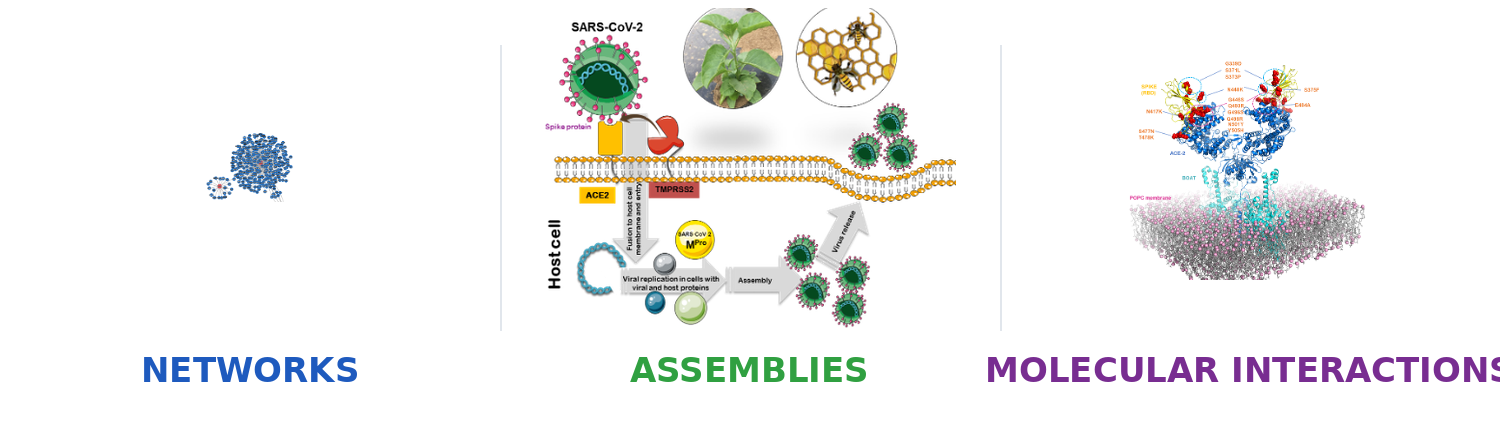
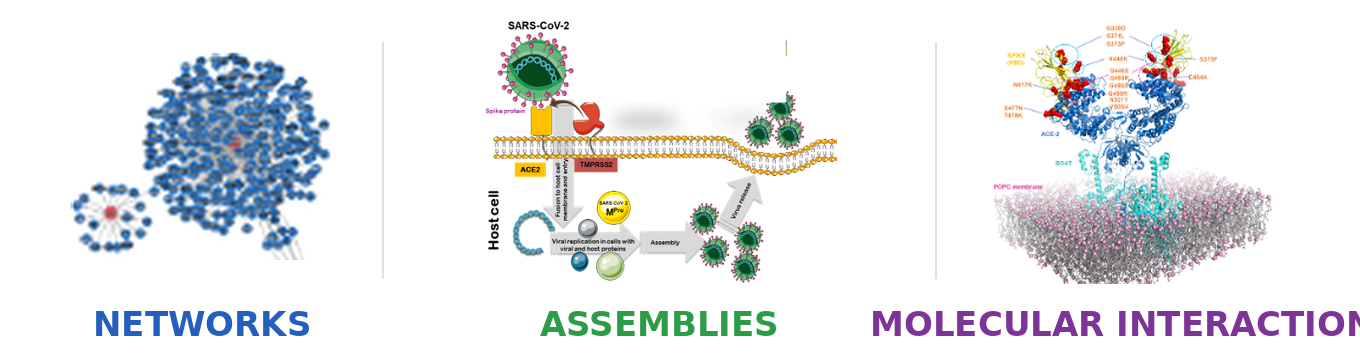
Add files via upload

diff --git a/index.html b/index.html
@@ -1,6 +1,6 @@
-<!doctype html><html lang="en"><head><meta charset="utf-8"><meta name="viewport" content="width=device-width,initial-scale=1"><title>LBSD | Laboratory of Biomolecular Structure & Dynamics</title><meta name="description" content="Laboratory of Biomolecular Structure & Dynamics (LBSD), JIIT Noida. Computational, integrative and data-driven approaches to biomolecular structure, dynamics and molecular discovery."><link rel="stylesheet" href="assets/style.css?v=3.1"></head><body>
+<!doctype html><html lang="en"><head><meta charset="utf-8"><meta name="viewport" content="width=device-width,initial-scale=1"><title>LBSD | Laboratory of Biomolecular Structure & Dynamics</title><meta name="description" content="Laboratory of Biomolecular Structure & Dynamics (LBSD), JIIT Noida. Computational, integrative and data-driven approaches to biomolecular structure, dynamics and molecular discovery."><link rel="stylesheet" href="assets/style.css?v=3.2"></head><body>
 <header><a class="brand" href="index.html"><b>LBSD</b><span>Laboratory of Biomolecular<br>Structure & Dynamics</span></a><nav><a class="active" href="index.html">Home</a><a href="research.html">Research</a><a href="people.html">People</a><a href="publications.html">Publications</a><a href="opportunities.html">Opportunities</a><a href="about.html">About</a></nav></header>
-<main><section class="hero hero-v2"><div><p class="eyebrow">COMPUTATIONAL · INTEGRATIVE · DATA-DRIVEN</p><h1>Decoding biomolecular organization across scales.</h1><p class="lead">We develop and apply computational, integrative, and data-driven approaches to understand biomolecular structure, dynamics, interactions, and function.</p><div class="actions"><a class="button" href="research.html">Explore our research →</a><a class="textlink" href="opportunities.html">Join LBSD</a></div></div><div class="scale-visual scale-banner" aria-label="Networks, assemblies, and molecular interactions"><img src="assets/images/hero-scales.png" alt="Networks, assemblies, and molecular interactions"></div></section>
+<main><section class="hero hero-v32"><div class="hero-copy"><p class="eyebrow">COMPUTATIONAL · INTEGRATIVE · DATA-DRIVEN</p><h1>Decoding biomolecular organization across scales.</h1><p class="lead">We develop and apply computational, integrative, and data-driven approaches to understand biomolecular structure, dynamics, interactions, and function.</p><div class="actions"><a class="button" href="research.html">Explore our research →</a><a class="textlink" href="opportunities.html">Join LBSD</a></div></div><div class="scale-visual scale-banner hero-banner-wide" aria-label="Networks, assemblies, and molecular interactions"><img src="assets/images/hero-scales.png" alt="Networks, assemblies, and molecular interactions"></div></section>
 <section class="section"><p class="eyebrow">RESEARCH</p><h2>From molecular mechanisms to discovery</h2><div class="cards research-cards">
 <article><div class="research-media"><video autoplay muted loop playsinline preload="metadata" aria-label="Molecular dynamics trajectory of an SLC6A12 transporter system"><source src="assets/images/slc612-histidine.mp4" type="video/mp4"></video></div><div class="num">01</div><h3>Biomolecular Structure & Dynamics</h3><p>Molecular modeling, conformational dynamics, simulations, and analysis of proteins, complexes, and membrane-associated systems.</p></article>
 <article><div class="research-media compact"><img src="assets/images/integrative-modeling.png" alt="Convolutional neural network architecture for structural modeling"></div><div class="num">02</div><h3>Integrative & Data-Driven Structural Biology</h3><p>Integrating structural, proteomic, and systems-level information to model macromolecular assemblies across biological scales.</p></article>

diff --git a/assets/style.css b/assets/style.css
@@ -16,3 +16,46 @@
 .scale-visual.scale-banner{display:flex;max-width:600px;margin-left:auto;align-items:center;justify-content:center}
 .scale-visual.scale-banner img{width:100%;height:auto;max-height:300px;object-fit:contain;background:#fff;border:1px solid var(--line);border-radius:14px;padding:8px}
 @media(max-width:850px){.scale-visual.scale-banner{max-width:620px;margin:10px auto 0}.scale-visual.scale-banner img{height:auto;max-height:none}}
+
+
+/* V3.2: larger, tighter hero banner with minimal white space */
+.hero-v32{
+  display:block;
+  max-width:var(--max);
+  margin:auto;
+  padding:68px 28px 52px;
+}
+.hero-v32 .hero-copy{
+  max-width:920px;
+  margin:0 auto 34px;
+  text-align:center;
+}
+.hero-v32 .hero-copy .lead{
+  margin-left:auto;
+  margin-right:auto;
+}
+.hero-v32 .actions{
+  justify-content:center;
+}
+.hero-v32 .hero-banner-wide{
+  max-width:1080px;
+  width:100%;
+  margin:0 auto;
+  display:block;
+}
+.hero-v32 .hero-banner-wide img{
+  display:block;
+  width:100%;
+  height:auto;
+  max-height:none;
+  object-fit:contain;
+  padding:0;
+  border:0;
+  border-radius:8px;
+  background:transparent;
+}
+@media(max-width:850px){
+  .hero-v32{padding:52px 18px 40px}
+  .hero-v32 .hero-copy{margin-bottom:26px}
+  .hero-v32 .hero-banner-wide{max-width:100%}
+}
